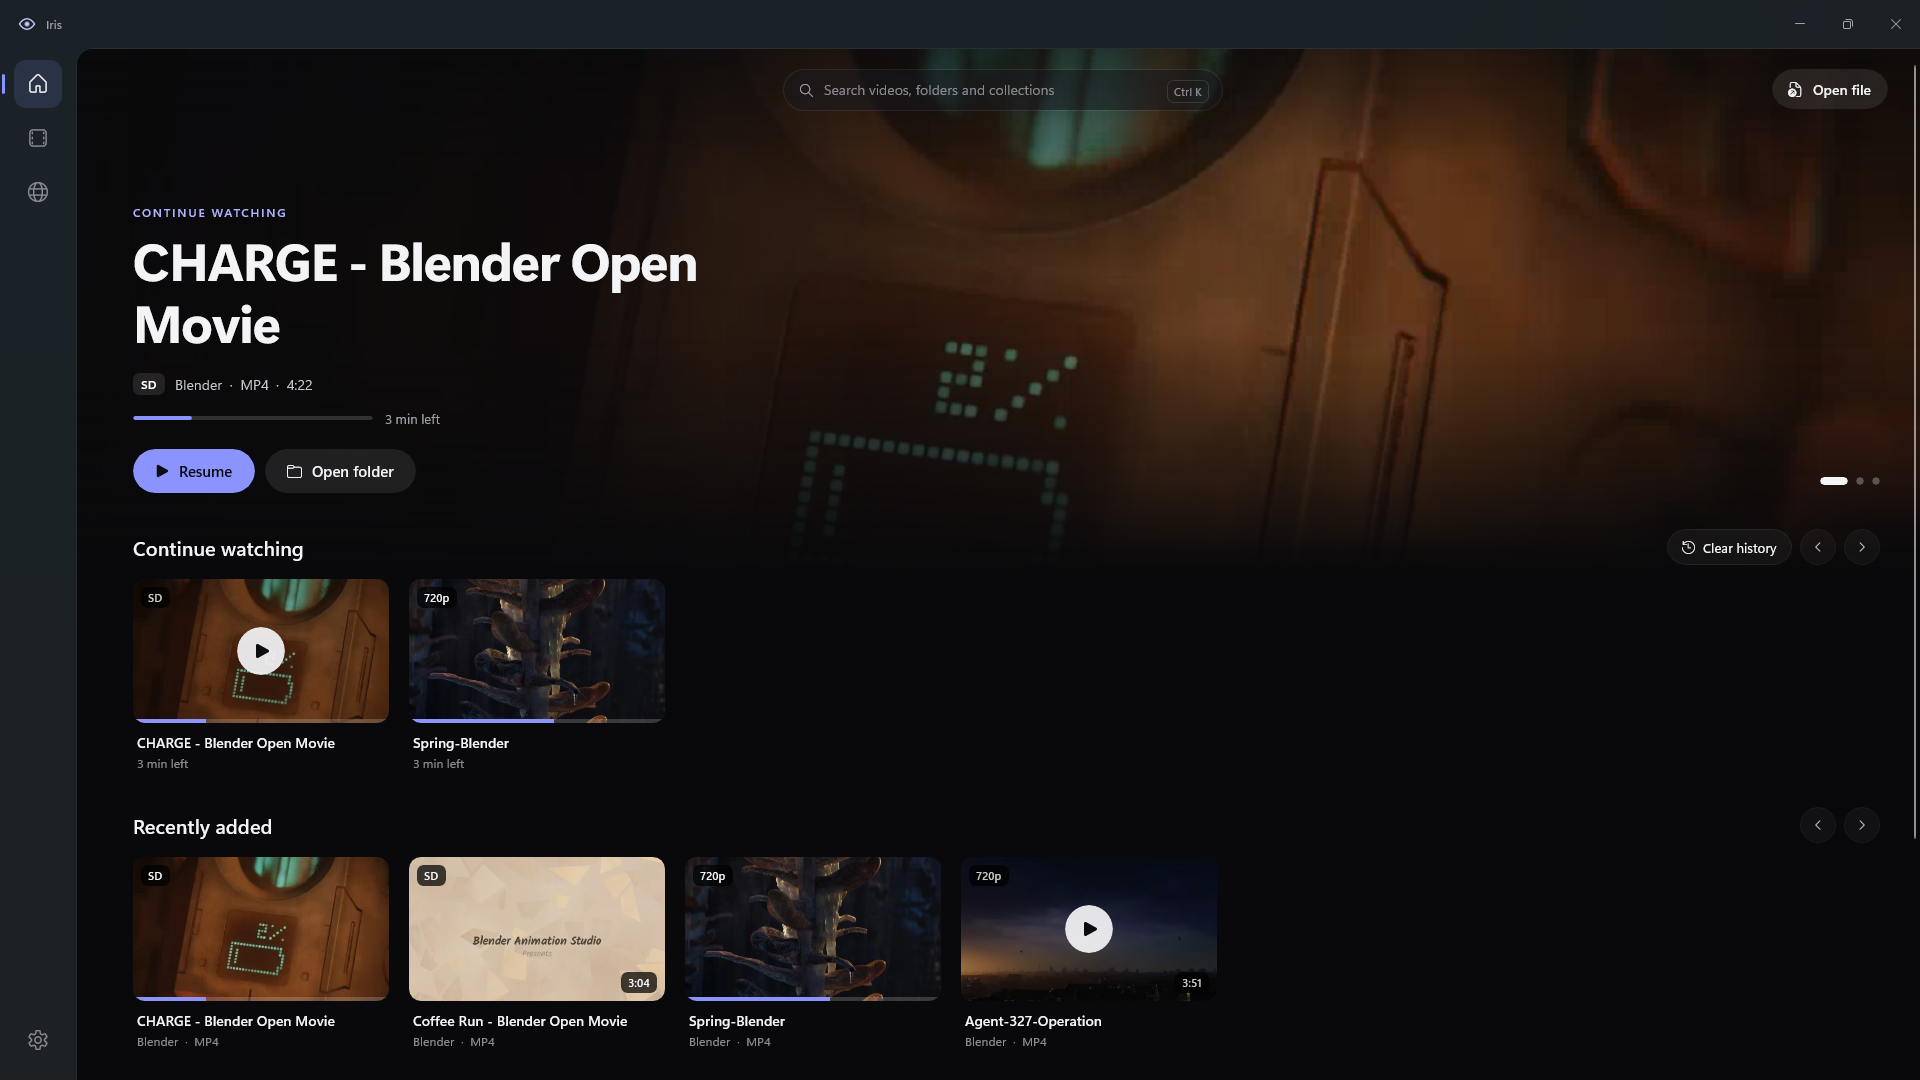
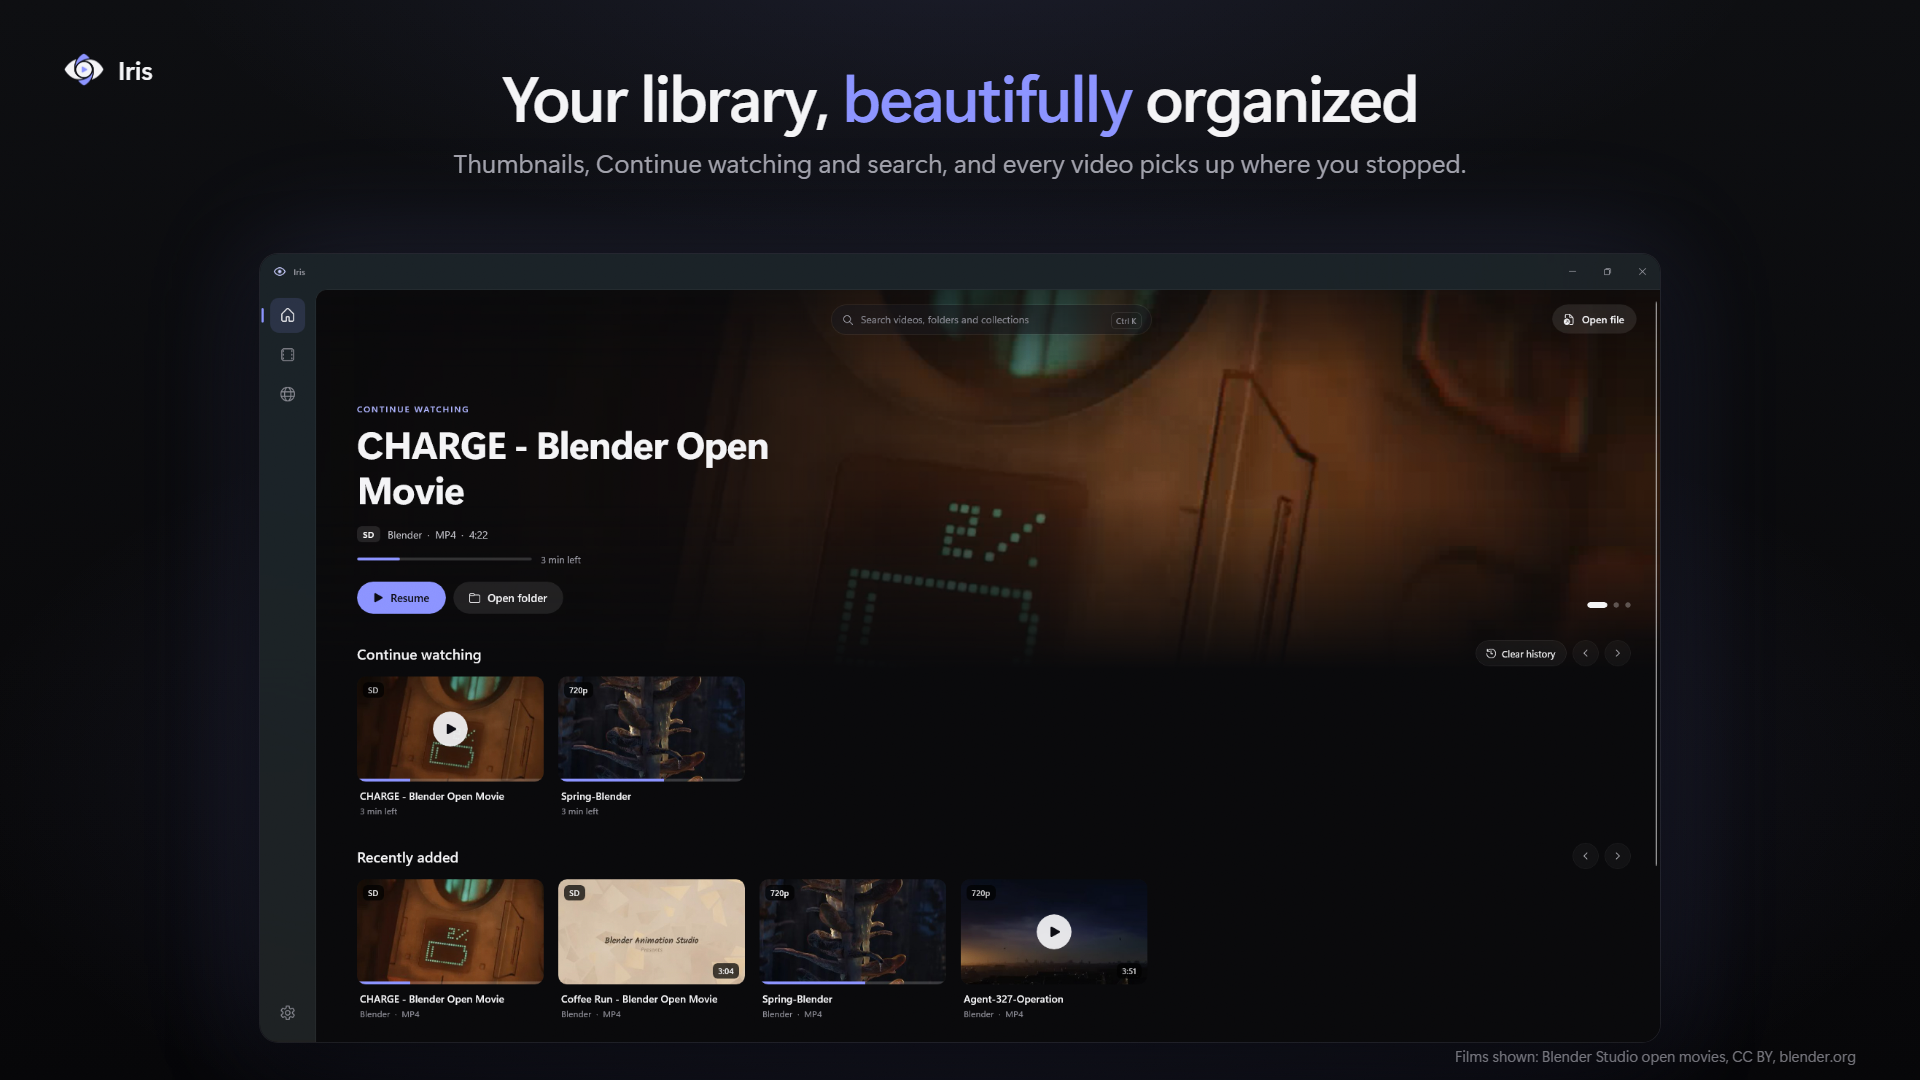
Refresh the README screenshots, mention the Store and add what's coming next

diff --git a/README.md b/README.md
@@ -6,30 +6,21 @@ You add your video folders, and Iris turns them into a library you can browse, s
 up where you left off. It plays pretty much anything, including 4K, HDR and MKV files with a
 bunch of audio and subtitle tracks.
 
+<p align="center">
+  <a href="screenshots/home.png"><img src="screenshots/home.png" alt="Iris Home: your library, beautifully organized"></a>
+</p>
 <table>
   <tr>
     <td width="50%" align="center">
-      <a href="screenshots/home.png"><img src="screenshots/home.png" alt="Iris Home, with Continue watching and Recently added"></a><br>
-      <sub><b>Home</b>: pick up where you left off, and see what's new</sub>
+      <a href="screenshots/player.png"><img src="screenshots/player.png" alt="The Iris player: plays almost anything"></a>
     </td>
     <td width="50%" align="center">
-      <a href="screenshots/library.png"><img src="screenshots/library.png" alt="The Iris library, browsing by folder"></a><br>
-      <sub><b>Library</b>: your videos by video, folder or collection</sub>
-    </td>
-  </tr>
-  <tr>
-    <td width="50%" align="center">
-      <a href="screenshots/player.png"><img src="screenshots/player.png" alt="Iris playing a video"></a><br>
-      <sub><b>Player</b>: mpv doing the playback, with clean controls on top</sub>
-    </td>
-    <td width="50%" align="center">
-      <a href="screenshots/server.png"><img src="screenshots/server.png" alt="Iris connected to a Jellyfin server"></a><br>
-      <sub><b>Jellyfin</b>: your server, browsed like a proper media center</sub>
+      <a href="screenshots/server.png"><img src="screenshots/server.png" alt="Iris connected to a Jellyfin server, like a media center"></a>
     </td>
   </tr>
 </table>
 
-<sub>Films shown: <a href="https://studio.blender.org/films/">Blender Studio open movies</a> (Charge, Coffee Run, Spring, Agent 327), CC BY, blender.org.</sub>
+<sub>Films shown: <a href="https://studio.blender.org/films/">Blender Studio open movies</a>, CC BY, blender.org.</sub>
 
 ## Why another media player?
 
@@ -51,6 +42,9 @@ Iris updates itself. When I put out a new version, it downloads it in the backgr
 you to restart (or just installs it the next time you open it).
 
 Runs on Windows 10 and 11, 64-bit.
+
+Iris is soon to be on the **Microsoft Store** too, signed by Microsoft and updated by the Store. I'll
+put the link here once it's live.
 
 ## What it does right now
 
@@ -106,7 +100,14 @@ Runs on Windows 10 and 11, 64-bit.
 - Your library, collections and resume points are saved in `%LocalAppData%\Iris`.
 - You can uninstall it from **Settings › Apps › Installed apps**. Your library stays, in case you
   come back.
-- Next on my list: a preview picture when you hover the seek bar, and skip intro.
+## What's coming next
+
+In the order I'm planning to build them:
+
+1. **Seek bar preview:** a little picture of that moment when you hover the seek bar.
+2. **Skip intro and skip silence:** a button to jump past the intro, and an option to speed
+   through the quiet bits.
+3. **Plex:** connect your Plex server, like Jellyfin and Stash.
 
 It's still a work in progress, so things will keep changing as I go.
 
